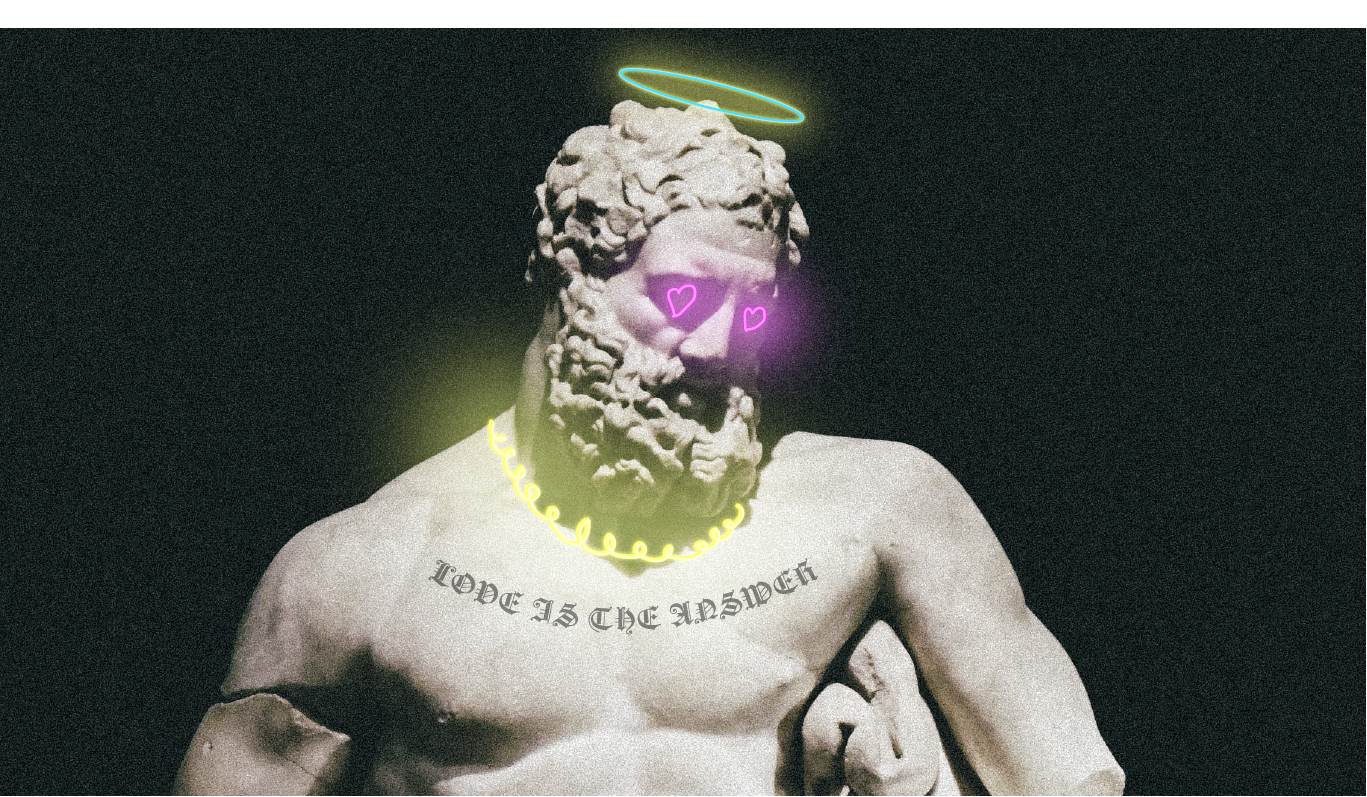
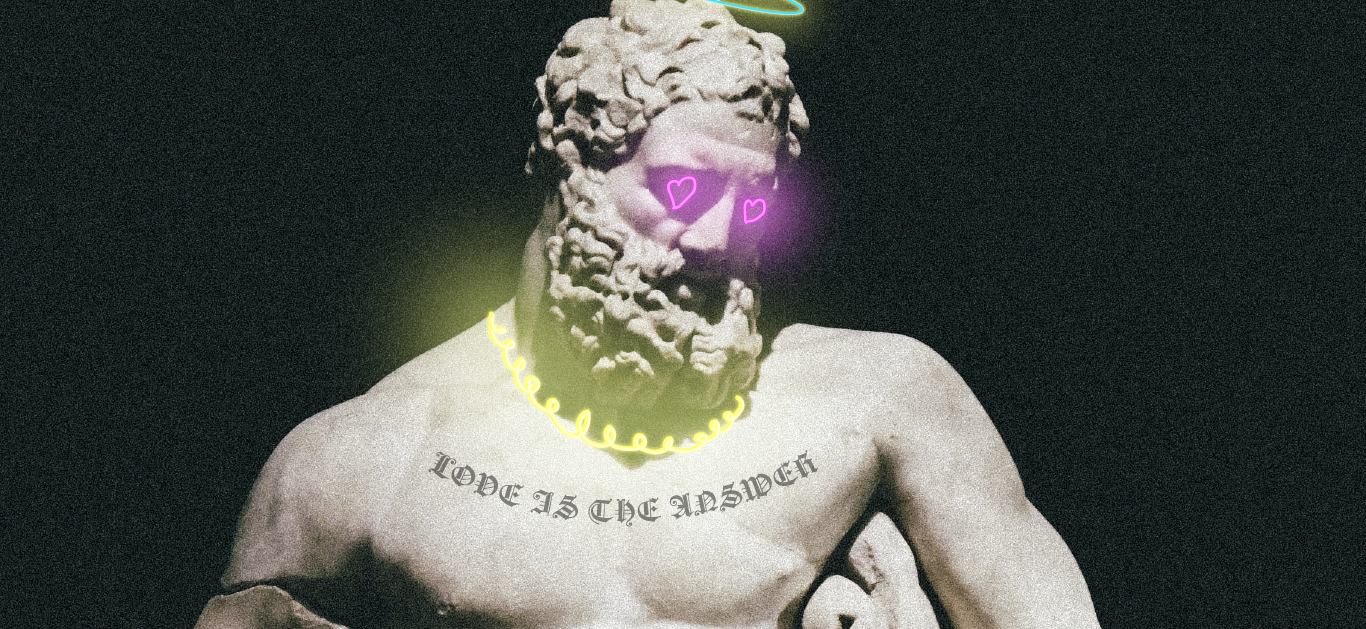
design front page

diff --git a/_sass/front-page.scss b/_sass/front-page.scss
@@ -1,0 +1,66 @@
+.page__wrapper {
+    max-width: 1440px;
+    margin: 0 auto;
+
+    .page__row{
+        position: relative;
+        .page__content {
+            position: absolute;
+            padding-left: 5%;
+            z-index: 100;
+            h1{
+                font-size: 100px;
+                font-weight: 900;
+                line-height: 0.8;
+    
+            }
+            h2{
+                margin-top: 3%;
+                font-size: 40px;
+                font-weight: 700;
+                margin-bottom: 3%;
+            }
+            p{
+                font-size: 25px;
+            }
+        }
+        img{
+            transform: translate(-213px, -261px);
+            z-index: -1000;
+        }
+
+    }
+
+
+    .page__card {
+        max-width: 1440px;
+        margin: 0 auto;
+        text-align: center;
+        position: absolute;
+        top: 95%;
+
+        .card__row{
+
+
+            .card__img {
+                width: 80%;
+                
+            }
+            .card__text {
+                font-size: 80px;
+                max-width: 70%;
+                text-align: center;
+                margin: 0 auto;
+                color: #fff;
+
+            }
+        }
+        a.page__btn {
+            font-size: 30px;
+            font-weight: 900;
+            border: 1px solid black;
+            border-radius: 10px;
+            padding: 2px 80px;
+        }
+    }
+}

diff --git a/index.html b/index.html
@@ -2,7 +2,7 @@
 layout: default
 title: Svenir,<br>the first NFT<br>souvenir<br>DAO
 subtitle: Be ready to be blown of course.
-descr: Join the WeHomies in unique and unforgetable adventures arround the world.
+descr: Join the WeHomies in unique and unforgetable <br> adventures arround the world.
 card_text: WeHomies are getting ready. Watch the trailer
 card_image: /assets/images/angel.png
 cta_text: DIVE INTO THE SVENIR DAO
@@ -10,15 +10,24 @@ cta_link: /dive/
 ---
 
 <div class="page__wrapper">
-  <h1>{{page.title}}</h1>
-  <h2>{{page.subtitle}}</h2>
-  <p>{{page.descr}}</p>
+  <div class="page__row">
+    <div class="page__content">
+      <h1>{{page.title}}</h1>
+      <h2>{{page.subtitle}}</h2>
+      <p>{{page.descr}}</p>
+    </div>
+    <img src="/assets/images/circle.png" alt="circle decoration">
 
-  <div class="card">
-    <img src="{{page.card_image}}" alt="angel">
-    
-    {{page.card_text}}
   </div>
 
-  <a href="{{page.cta_link}}">{{page.cta_text}}</a>
+  <div class="page__card">
+    <div class="card__row">
+      <img class="card__img" src="{{page.card_image}}" alt="angel">
+      <div class="card__text">
+        {{page.card_text}}
+      </div>
+
+    </div>
+
+    <a class="page__btn" href="{{page.cta_link}}">{{page.cta_text}}</a>
 </div>

diff --git a/_sass/footer.scss b/_sass/footer.scss
@@ -1,18 +1,41 @@
-.footer__wrapper {
-    max-width: 1440px;
-    margin: 0 auto;
-}
-.footer__text {
-    font-size: 14px;
-    text-align: center;
+footer{
+    margin-top: 6%;
+    margin-bottom: 20%;
 
-}
-.footer__social {
-    margin: 0 auto;
-}
-.like {
-}
-.instagram {
-}
-.youtube {
+
+    .footer__wrapper {
+        max-width: 1080px;
+        margin: 0 auto;
+        text-align: center;
+
+        .footer__decoration{
+            border-top: 1px solid #000;
+            margin-bottom: 30px;
+        }
+        .footer__text {
+            max-width: 31%;
+            font-size: 12px;
+            font-weight: 900;
+            margin: 0 auto;
+            line-height: 1.2;
+            font-style: italic;  
+
+        }
+        .footer__social {
+            margin-top: 15px;
+            img{
+                padding-right: 5px;
+            }
+        
+            .like {
+                max-width: 2.5%;
+            }
+            .instagram {
+                max-width: 3%;
+            }
+            .youtube {
+                max-width: 3%;
+            }
+        }
+    }
 }

diff --git a/_sass/header.scss b/_sass/header.scss
@@ -1,28 +1,29 @@
 header{
     max-width: 1440px;
     margin: 0 auto;
-}
 
-.header__wrapper {
-    display: flex;
-    justify-content: space-between;
-}
 
-.header__logo {
-    img{
-        max-width: 10%;
+    .header__wrapper {
+        display: flex;
+        justify-content: space-between;
+        align-content: center;
+        margin-bottom: 10%;
+
+        .header__logo {
+            img{
+                max-width: 12%;
+            }
+        }
+        .header__btn {
+            margin-top: 47px;
+            border: 1px solid #000;
+            border-radius: 50px;
+            text-transform: uppercase; 
+        }
+
+        .btn {
+            font-size: 25px;
+            padding: 20px 40px;
+        }
     }
-}
-
-.header__btn {
-    margin-top: 47px;
-    border: 1px solid #000;
-    border-radius: 50px;
-    text-transform: uppercase;
-    
-}
-
-.btn {
-    font-size: 25px;
-    padding: 20px 40px;
 }

diff --git a/_sass/custom.scss b/_sass/custom.scss
@@ -1,7 +1,10 @@
 body{
     max-width: 1920px;
     margin: 0 auto;
-    background: url(/assets/images/background2.png);
+    background: url(/assets/images/background.png);
+    background-repeat: no-repeat;
+    background-position: top center;
+    background-size: 110%;
     a{
         color: black;
         text-decoration: none;

diff --git a/_includes/footer.html b/_includes/footer.html
@@ -1,5 +1,6 @@
 <footer>
     <div class="footer__wrapper">
+        <div class="footer__decoration"></div>
         <div class="footer__text">
             <p>SVENIR is the first souvenir DAO in the world; Be part of the
                 WEhomies adventures trought Highly curated digital assets in the

diff --git a/_sass/common.scss b/_sass/common.scss
@@ -1,3 +1,4 @@
 @import "custom";
 @import "header";
+@import "front-page";
 @import "footer";
